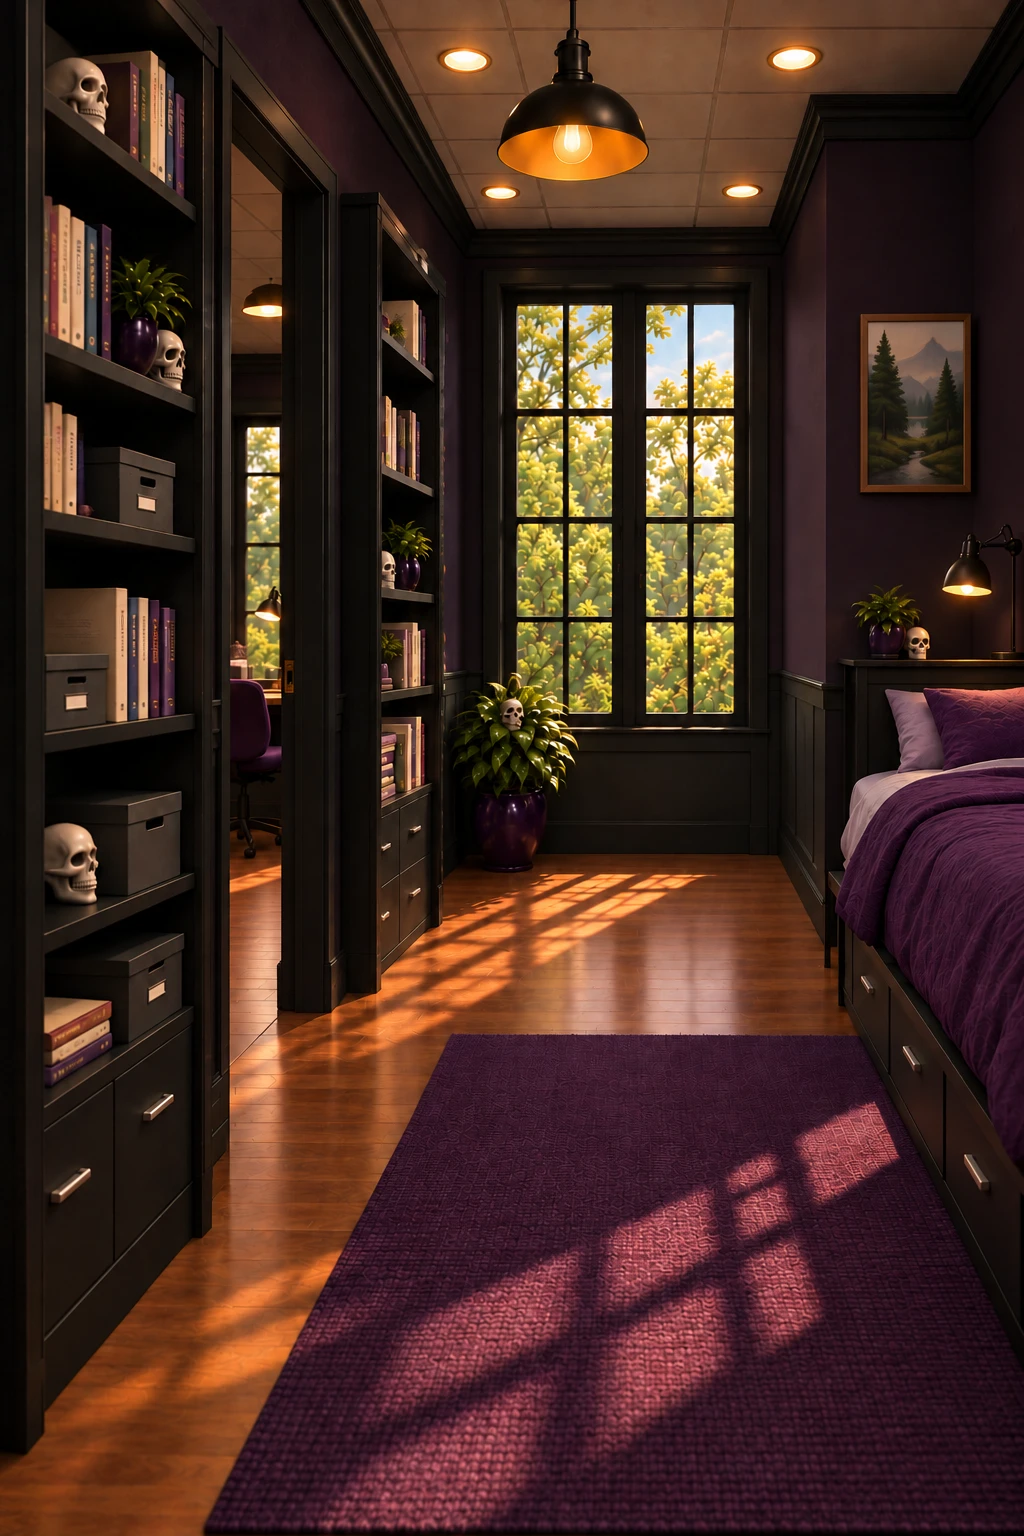
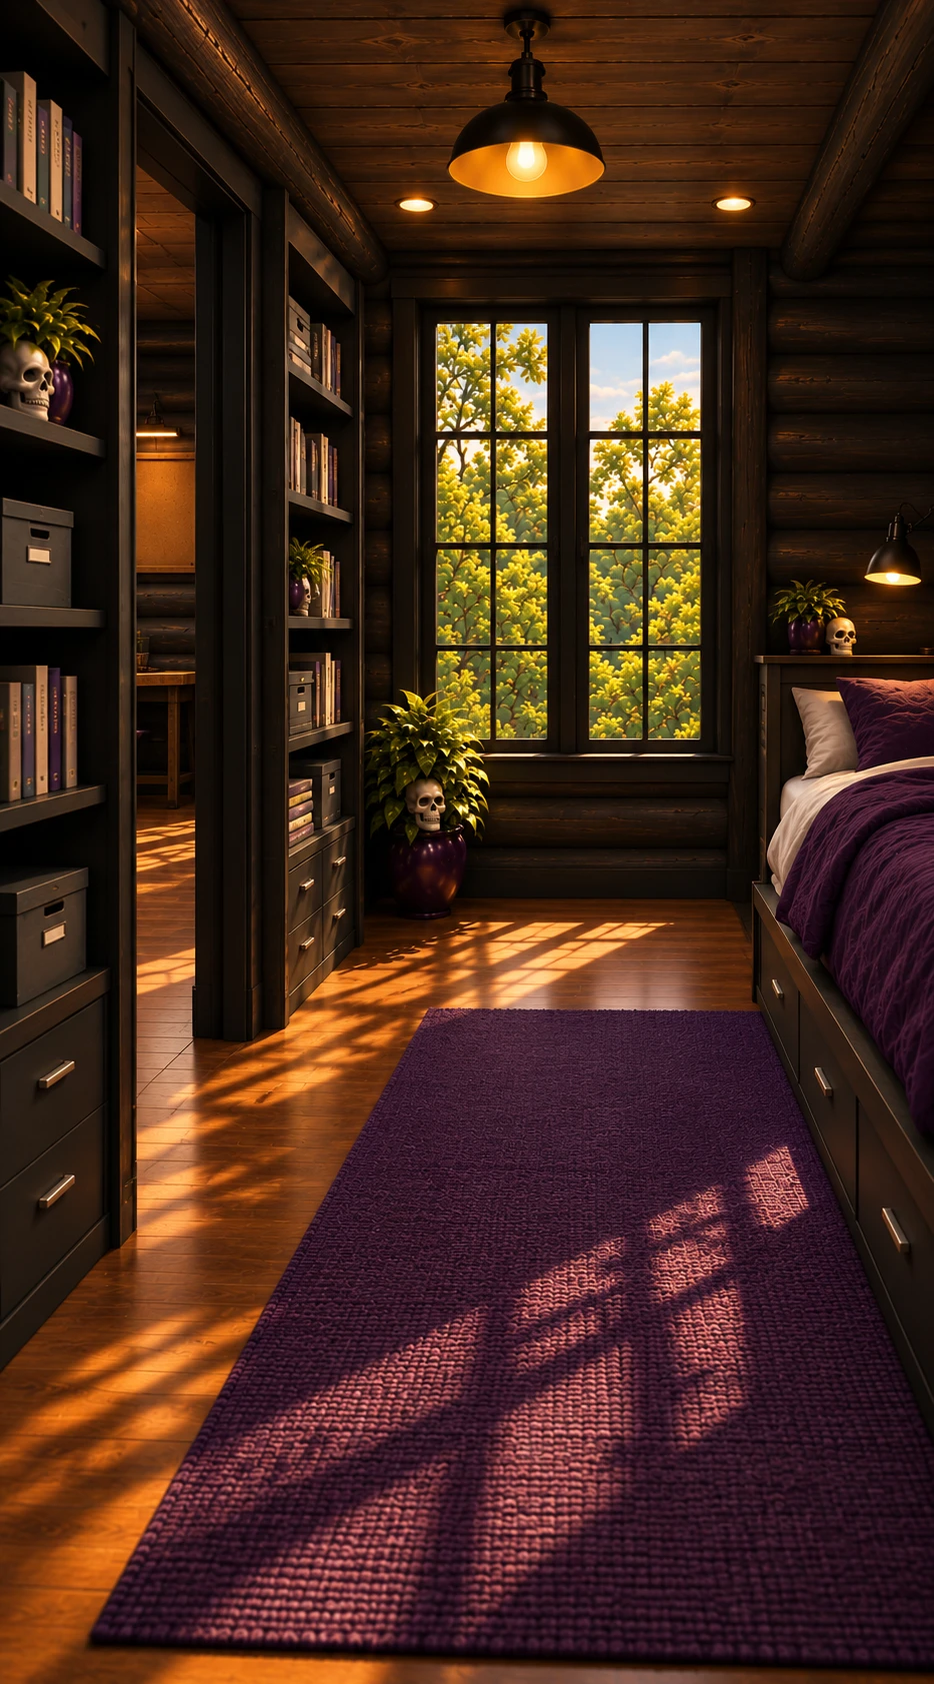
art: cabin restyle batch 3 — Me room (front/left/left2), 934x1684
Claude-Session: https://claude.ai/code/session_01KKhQMghLUspva6Yzs31jQ3

diff --git a/src/data/hubScene.ts b/src/data/hubScene.ts
@@ -439,8 +439,8 @@ export const HUB_NODES: Record<string, HubNode> = {
     id: "me_front",
     title: "Me",
     image: require("../../assets/scenes/me_front.png"),
-    imgW: 1024,
-    imgH: 1536,
+    imgW: 934,
+    imgH: 1684,
     fit: "screen",
     // Corridor: only turn LEFT to walk deeper; back → the lobby.
     left: "me_left",
@@ -464,8 +464,8 @@ export const HUB_NODES: Record<string, HubNode> = {
     id: "me_left",
     title: "Me",
     image: require("../../assets/scenes/me_left.png"),
-    imgW: 1024,
-    imgH: 1536,
+    imgW: 934,
+    imgH: 1684,
     fit: "screen",
     left: "me_left2",
     right: "me_front",
@@ -487,8 +487,8 @@ export const HUB_NODES: Record<string, HubNode> = {
     id: "me_left2",
     title: "Me",
     image: require("../../assets/scenes/me_left2.png"),
-    imgW: 1024,
-    imgH: 1536,
+    imgW: 934,
+    imgH: 1684,
     fit: "screen",
     right: "me_left",
     back: "front",
